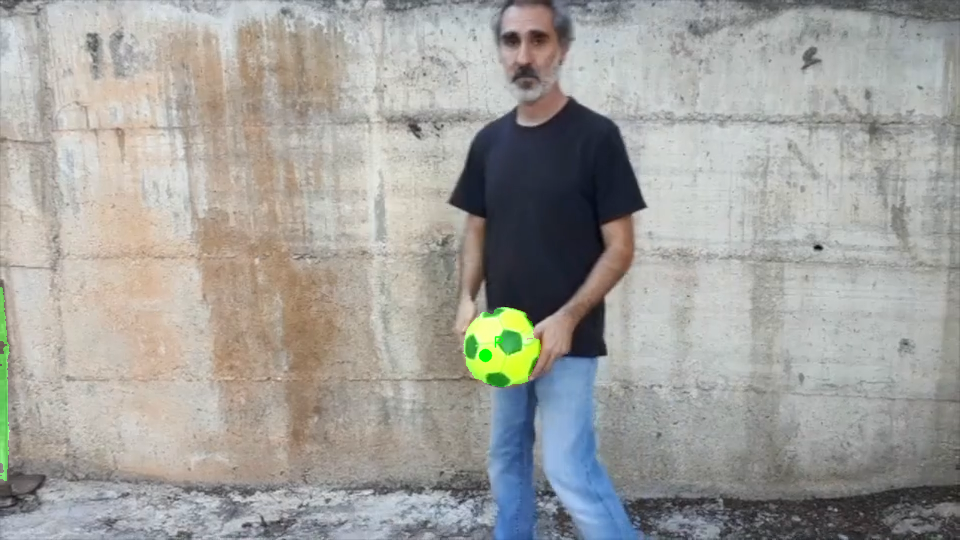
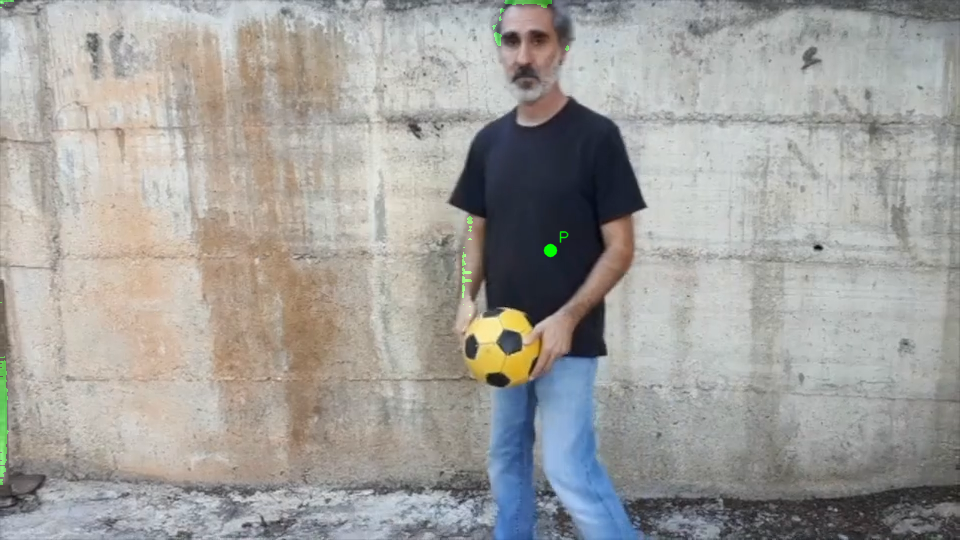
nc

diff --git a/segmentor_sam21/tensor_utils.h b/segmentor_sam21/tensor_utils.h
@@ -75,14 +75,33 @@ inline Ort::Value getTensorCopy(TensorCopy& tcopy, Ort::MemoryInfo& memory_info)
   */
     //Fix: to avoid passing a pointer to a local variable (tmp)
     } else if (tcopy.info.type == ONNX_TENSOR_ELEMENT_DATA_TYPE_BOOL) {
+        // Prefer existing bool_storage (e.g., from make_bool_mask)
+        if (tcopy.bool_storage.size() == static_cast<size_t>(tcopy.size)) {
+            return Ort::Value::CreateTensor<bool>(
+                memory_info,
+                reinterpret_cast<bool*>(tcopy.bool_storage.data()),
+                tcopy.bool_storage.size(),
+                tcopy.info.shape.data(),
+                tcopy.info.shape.size()
+            );
+        }
+
+        // Otherwise, build bool_storage from float data (legacy path)
+        if (tcopy.data.size() != static_cast<size_t>(tcopy.size)) {
+            printf("ERROR: BOOL tensor has neither bool_storage nor float data of correct size.\n");
+            exit(-1);
+        }
         tcopy.bool_storage.resize(tcopy.size);
-        for (int i = 0; i < tcopy.size; ++i)
-          tcopy.bool_storage[i] = (tcopy.data[i] != 0.0f) ? uint8_t(1) : uint8_t(0);
+        for (int i = 0; i < tcopy.size; ++i) {
+            tcopy.bool_storage[i] = (tcopy.data[i] != 0.0f) ? uint8_t(1) : uint8_t(0);
+        }
         return Ort::Value::CreateTensor<bool>(
-          memory_info, reinterpret_cast<bool*>(tcopy.bool_storage.data()),
-          tcopy.bool_storage.size(),
-          tcopy.info.shape.data(), 
-          tcopy.info.shape.size());
+            memory_info,
+            reinterpret_cast<bool*>(tcopy.bool_storage.data()),
+            tcopy.bool_storage.size(),
+            tcopy.info.shape.data(),
+            tcopy.info.shape.size()
+        );
   } else {
     printf("ERROR: Trying to use setTensorCopy with a non-float or non-bool tensor.\n");
     exit(-1);
@@ -200,6 +219,7 @@ inline TensorCopy concat_seq_axis0(std::vector<TensorCopy>& xs) {
 }
 
 // ---- make bool mask [len,1] (data stored as 1.0/0.0 in TensorCopy)
+//AI suggests it's wrong
 inline TensorCopy make_bool_mask(int64_t len, bool value) {
     TensorCopy out;
     out.info.type  = ONNX_TENSOR_ELEMENT_DATA_TYPE_BOOL;  // important
@@ -210,5 +230,31 @@ inline TensorCopy make_bool_mask(int64_t len, bool value) {
     std::fill(out.data.begin(), out.data.end(), f);
     return out;
 }
+
+//new version (it's not working fine with the ball)
+/*
+inline TensorCopy make_bool_mask(int64_t len) {
+    TensorCopy out;
+    out.info.type  = ONNX_TENSOR_ELEMENT_DATA_TYPE_BOOL;
+
+    if (len <= 0) {
+        // Dummy placeholder: [1,1], all masked (true)
+        out.info.shape = {1, 1};
+        out.size = 1;
+        out.bool_storage.resize(1);
+        out.bool_storage[0] = true;
+        out.data.clear();
+    } else {
+        // Real mask: [len,1], all valid (false = keep)
+        out.info.shape = {len, 1};
+        out.size = len;
+        out.bool_storage.resize(len);
+        std::fill(out.bool_storage.begin(), out.bool_storage.end(), false);
+        out.data.clear();
+    }
+
+    return out;
+}
+*/
 
 #endif

diff --git a/segmentor_sam21/sam21.cpp b/segmentor_sam21/sam21.cpp
@@ -433,7 +433,9 @@ cv::Mat SAM21::inference_frame(cv::Mat image,
       // 1) curr and curr_pos from this frame
       printf("\tcurr and curr_pos...\n");
       auto curr_seq     = flatten_nchw_to_hw1c(inference_state.vision_features);           // [4096,1,256]
-      auto curr_pos_seq = flatten_nchw_to_hw1c(inference_state.prompt_encoder_out_dense_pe); // [4096,1,256]
+      //auto curr_pos_seq = flatten_nchw_to_hw1c(inference_state.prompt_encoder_out_dense_pe); // [4096,1,256]
+      //suggested change by IA (does not impact)
+      auto curr_pos_seq = flatten_nchw_to_hw1c(inference_state.dense_pe);  // image encoder's vision_pos_enc_2
 
       // 2) memory_1 and memory_pos_1 from the memory bank
       printf("\tmemory_1 and memory_pos_1 from the memory bank (and attention_mask_1)...\n");
@@ -451,6 +453,9 @@ cv::Mat SAM21::inference_frame(cv::Mat image,
       int64_t len_mem1 = getTensorCopy(memory_1, memory_info).GetTensorTypeAndShapeInfo().GetShape()[0];
       bool have_mem1 = !inference_state.maskmem_features_BC64x64.empty();
       auto attention_mask_1 = make_bool_mask(len_mem1, have_mem1);
+      //suggested change
+      //auto attention_mask_1 = make_bool_mask(len_mem1);
+
 
       // 3) memory_2 and memory_pos_2 (object-pointer path) — placeholder bootstrap
       //    For now: provide a single dummy row with mask=false.
@@ -497,6 +502,8 @@ cv::Mat SAM21::inference_frame(cv::Mat image,
       auto memory_2     = concat_seq_axis0(ptr_feats);   // [-1,1,64]
       auto memory_pos_2 = concat_seq_axis0(ptr_poses);   // [-1,1,64]
       auto attention_mask_2 = make_bool_mask(Nptr, true);
+      //suggested change
+      //auto attention_mask_2 = make_bool_mask(Nptr);
 
       // 4) Pack inputs and run     
       mem_attention_input_tensor.push_back(getTensorCopy(curr_seq, memory_info));       // curr     
@@ -610,6 +617,7 @@ cv::Mat SAM21::inference_frame(cv::Mat image,
   std::vector<Ort::Value> img_decoder_out  = img_decoder.run(img_decoder_input_tensor);
 
   if (frame_num == 0) {
+  //if (1==1) {
       //Compute the best mask 
       int img_decoder_out_iou_predictions_idx = img_decoder.outputIdxByName(const_cast<char*>("iou_pred")); 
       inference_state.maxScoreIdx = 0;
@@ -637,7 +645,10 @@ cv::Mat SAM21::inference_frame(cv::Mat image,
   // Build high-res mask for memory: logits → (sigmoid or binarize) → [1,1,1024,1024]
   std::vector<float> mask_for_mem; 
   bool binarize_from_points = !keep_memory; // set true if this mask came purely from point prompts and you want hard masks
-  float sigmoid_scale = 1.0f, sigmoid_bias = 0.0f;
+  //float sigmoid_scale = 1.0f, sigmoid_bias = 0.0f;
+  //suggested change
+  float sigmoid_scale = 20.0f;
+  float sigmoid_bias  = -10.0f;
   make_mask_for_memory_from_logits(lowres_logits, 1024, mask_for_mem, binarize_from_points, sigmoid_scale, sigmoid_bias);
 
   if (keep_memory) {
